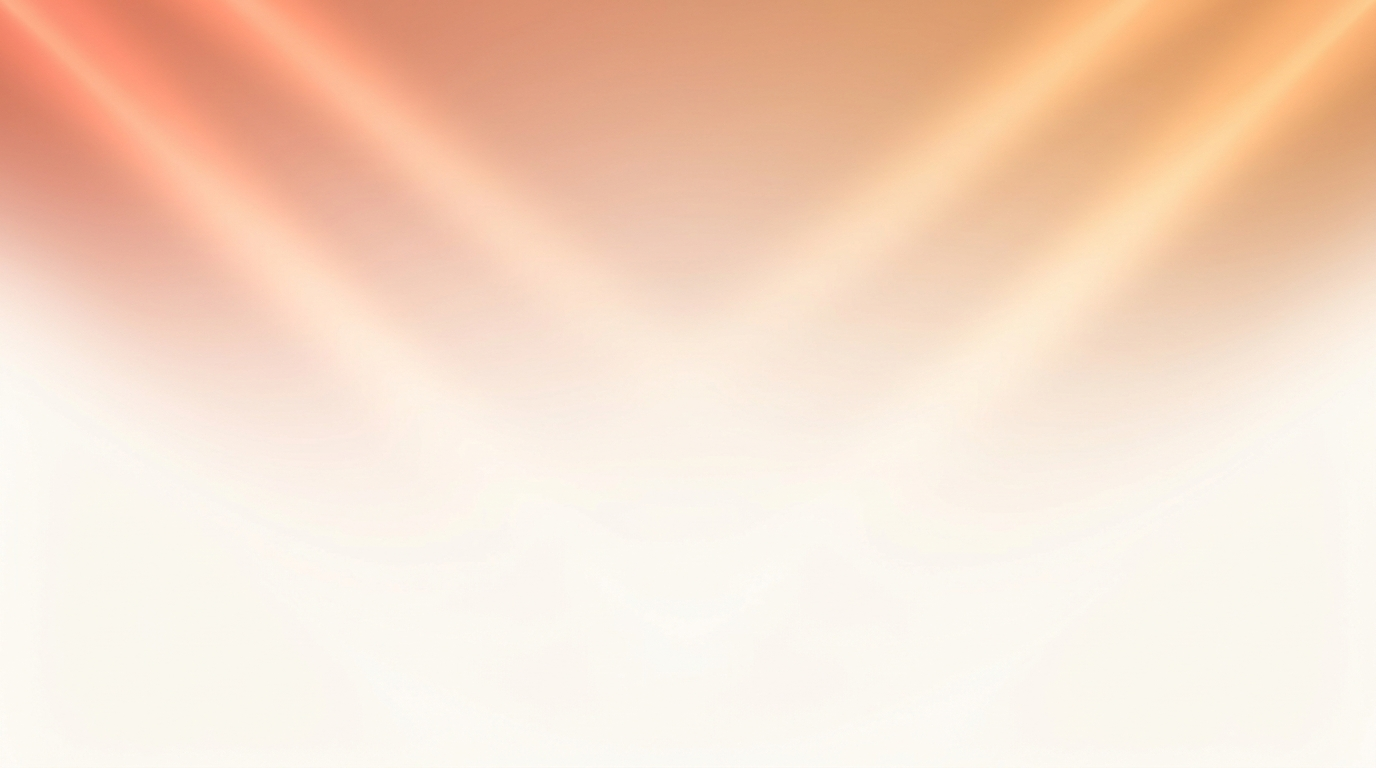
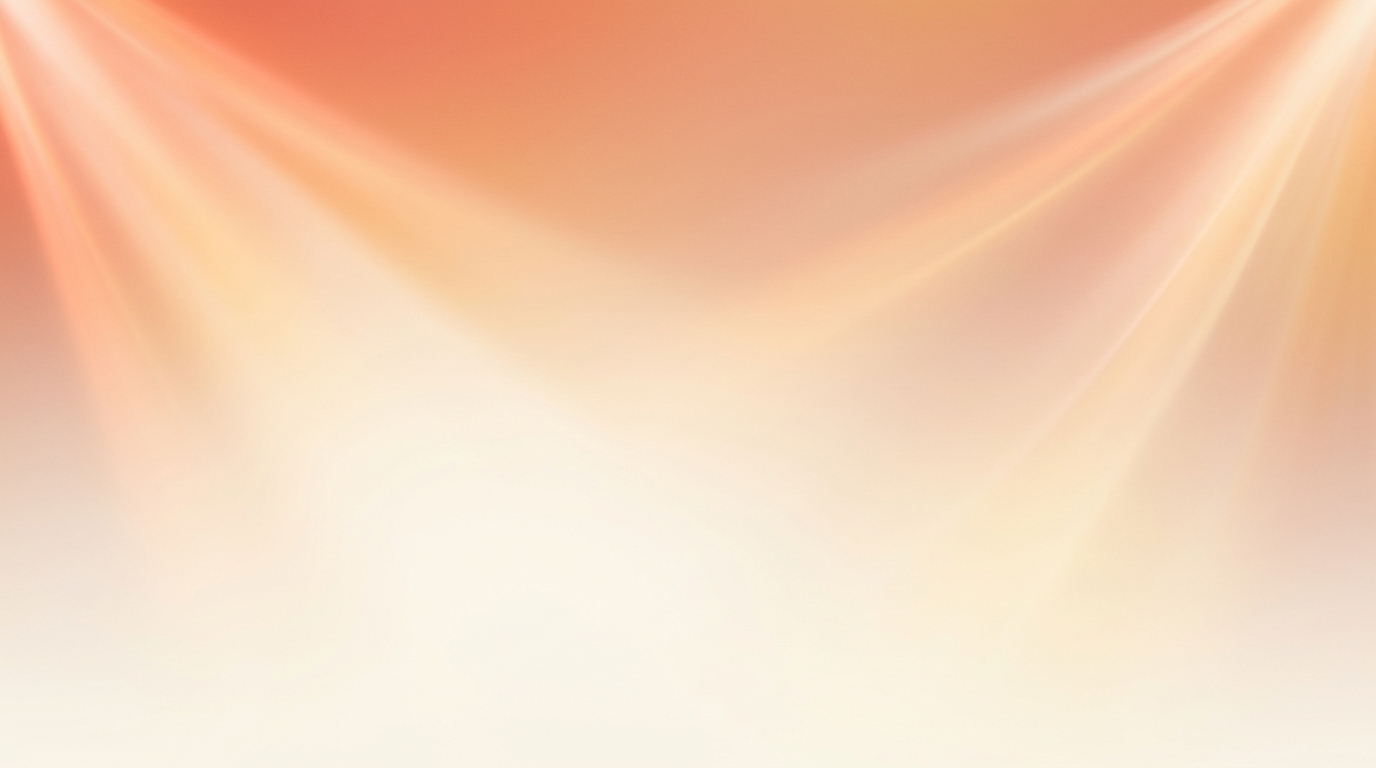
Update Hero background to ultra-wide spread radiant beams with seamless canvas integration

diff --git a/src/components/Footer.tsx b/src/components/Footer.tsx
@@ -7,65 +7,74 @@ const APP_LOGIN_URL = 'https://app-cressco.vercel.app/login';
 
 export default function Footer() {
   return (
-    <footer className="bg-white border-t border-black/[0.06] pt-16 pb-12">
-      <div className="max-w-6xl mx-auto px-4 sm:px-6 lg:px-8">
+    <footer className="relative bg-[#05060B] text-white overflow-hidden border-t border-white/[0.08]">
+      {/* Background Ambient Glow & Starfield effect */}
+      <div className="absolute inset-0 pointer-events-none">
+        {/* Deep blue/purple & warm brand ambient gradient at bottom */}
+        <div className="absolute -bottom-24 -right-24 w-[500px] h-[500px] bg-blue-600/15 rounded-full blur-[120px]" />
+        <div className="absolute -bottom-32 left-1/3 w-[600px] h-[400px] bg-indigo-600/10 rounded-full blur-[140px]" />
+        <div className="absolute -bottom-10 left-0 w-[400px] h-[300px] bg-brand-500/10 rounded-full blur-[100px]" />
         
-        {/* Main Footer Grid */}
-        <div className="grid grid-cols-1 md:grid-cols-12 gap-10 md:gap-8 pb-12 border-b border-black/[0.06]">
-          
-          {/* Brand Col */}
-          <div className="md:col-span-4">
-            <a href={APP_LOGIN_URL} className="flex items-center gap-2.5 mb-3.5 group">
-              <img
-                src="/images/cressco-logo.png"
-                alt="Cressco Logo"
-                className="w-8 h-8 object-contain block"
-              />
-              <span className="text-xl font-bold tracking-tight text-charcoal-900">
-                Cressco
-              </span>
-            </a>
-            
-            <p className="text-sm text-charcoal-100 font-normal leading-relaxed max-w-xs mb-6">
-              Smarter management for growing bimbels.
-            </p>
+        {/* Subtle Starfield dots */}
+        <svg className="absolute inset-0 w-full h-full opacity-35" xmlns="http://www.w3.org/2000/svg">
+          <circle cx="8%" cy="18%" r="1" fill="#ffffff" opacity="0.8" />
+          <circle cx="15%" cy="38%" r="1" fill="#ffffff" opacity="0.4" />
+          <circle cx="28%" cy="14%" r="1.2" fill="#ffffff" opacity="0.7" />
+          <circle cx="42%" cy="28%" r="0.8" fill="#ffffff" opacity="0.5" />
+          <circle cx="58%" cy="12%" r="1" fill="#ffffff" opacity="0.6" />
+          <circle cx="72%" cy="32%" r="1.2" fill="#ffffff" opacity="0.7" />
+          <circle cx="86%" cy="16%" r="0.8" fill="#ffffff" opacity="0.4" />
+          <circle cx="94%" cy="24%" r="1" fill="#ffffff" opacity="0.8" />
+          <circle cx="34%" cy="50%" r="0.8" fill="#ffffff" opacity="0.3" />
+          <circle cx="65%" cy="48%" r="1" fill="#ffffff" opacity="0.5" />
+          <circle cx="82%" cy="60%" r="1" fill="#ffffff" opacity="0.6" />
+        </svg>
+      </div>
 
-            <div className="inline-flex items-center gap-2 text-xs text-charcoal-50 font-mono">
-              <span className="w-2 h-2 rounded-full bg-emerald-500" />
-              <span>Indonesia B2B SaaS Platform</span>
-            </div>
+      <div className="relative z-10 max-w-7xl mx-auto px-6 sm:px-8 lg:px-12 pt-16 sm:pt-20 pb-8 sm:pb-12">
+        {/* Top Content Row */}
+        <div className="grid grid-cols-1 lg:grid-cols-12 gap-12 lg:gap-8 pb-16 sm:pb-24">
+          
+          {/* Brand Info (Left) */}
+          <div className="lg:col-span-6 max-w-md">
+            <h3 className="text-xl sm:text-2xl font-bold tracking-wider text-white uppercase mb-3.5">
+              CRESSCO
+            </h3>
+            <p className="text-sm sm:text-[15px] text-zinc-400 font-normal leading-relaxed mb-6">
+              Modern SaaS platform to connect, automate, and grow your bimbel branches — all in one place.
+            </p>
+            <p className="text-xs text-zinc-400 font-normal tracking-wide">
+              © Copyright 2026 Cressco. All Rights Reserved.
+            </p>
           </div>
 
-          {/* Links Columns */}
-          <div className="md:col-span-8 grid grid-cols-2 sm:grid-cols-3 gap-8">
+          {/* Nav Links Columns (Right) */}
+          <div className="lg:col-span-6 grid grid-cols-3 gap-6 sm:gap-10">
             
             {/* Product */}
             <div>
-              <h4 className="text-xs font-bold text-charcoal-900 uppercase tracking-wider mb-4">
+              <h4 className="text-sm font-semibold text-white mb-4 tracking-tight">
                 Product
               </h4>
-              <ul className="space-y-2.5 text-sm">
+              <ul className="space-y-3 text-xs sm:text-sm text-zinc-400">
                 <li>
-                  <Link href="#features" className="text-charcoal-100 hover:text-brand-600 transition-colors">
+                  <Link href="#features" className="hover:text-white transition-colors duration-150">
                     Features
                   </Link>
                 </li>
                 <li>
-                  <Link href="#pricing" className="text-charcoal-100 hover:text-brand-600 transition-colors">
-                    Pricing
+                  <Link href="#roles" className="hover:text-white transition-colors duration-150">
+                    Integrations
                   </Link>
                 </li>
                 <li>
-                  <a 
-                    href={APP_LOGIN_URL}
-                    className="text-charcoal-100 hover:text-brand-600 transition-colors block"
-                  >
-                    Dashboard Login
-                  </a>
+                  <Link href="#workflow" className="hover:text-white transition-colors duration-150">
+                    How It Works
+                  </Link>
                 </li>
                 <li>
-                  <Link href="#roles" className="text-charcoal-100 hover:text-brand-600 transition-colors">
-                    Roles
+                  <Link href="#pricing" className="hover:text-white transition-colors duration-150">
+                    Pricing
                   </Link>
                 </li>
               </ul>
@@ -73,70 +82,99 @@ export default function Footer() {
 
             {/* Company */}
             <div>
-              <h4 className="text-xs font-bold text-charcoal-900 uppercase tracking-wider mb-4">
+              <h4 className="text-sm font-semibold text-white mb-4 tracking-tight">
                 Company
               </h4>
-              <ul className="space-y-2.5 text-sm">
+              <ul className="space-y-3 text-xs sm:text-sm text-zinc-400">
                 <li>
-                  <a 
-                    href={APP_LOGIN_URL}
-                    className="text-charcoal-100 hover:text-brand-600 transition-colors block"
-                  >
+                  <a href={APP_LOGIN_URL} className="hover:text-white transition-colors duration-150">
                     About
                   </a>
                 </li>
                 <li>
-                  <a 
-                    href={APP_LOGIN_URL}
-                    className="text-charcoal-100 hover:text-brand-600 transition-colors block"
-                  >
+                  <a href={APP_LOGIN_URL} className="hover:text-white transition-colors duration-150">
+                    Careers
+                  </a>
+                </li>
+                <li>
+                  <a href={APP_LOGIN_URL} className="hover:text-white transition-colors duration-150">
+                    Blog
+                  </a>
+                </li>
+                <li>
+                  <a href={APP_LOGIN_URL} className="hover:text-white transition-colors duration-150">
                     Contact
                   </a>
                 </li>
               </ul>
             </div>
 
-            {/* Resources */}
+            {/* Legal */}
             <div>
-              <h4 className="text-xs font-bold text-charcoal-900 uppercase tracking-wider mb-4">
-                Resources
+              <h4 className="text-sm font-semibold text-white mb-4 tracking-tight">
+                Legal
               </h4>
-              <ul className="space-y-2.5 text-sm">
+              <ul className="space-y-3 text-xs sm:text-sm text-zinc-400">
                 <li>
-                  <a 
-                    href={APP_LOGIN_URL}
-                    className="text-charcoal-100 hover:text-brand-600 transition-colors block"
-                  >
-                    Help Center
+                  <a href={APP_LOGIN_URL} className="hover:text-white transition-colors duration-150">
+                    Terms of License
                   </a>
                 </li>
                 <li>
-                  <a 
-                    href={APP_LOGIN_URL}
-                    className="text-charcoal-100 hover:text-brand-600 transition-colors block"
-                  >
-                    Documentation
+                  <a href={APP_LOGIN_URL} className="hover:text-white transition-colors duration-150">
+                    Privacy Policy
                   </a>
                 </li>
                 <li>
-                  <Link href="#faq" className="text-charcoal-100 hover:text-brand-600 transition-colors">
-                    FAQ
-                  </Link>
+                  <a href={APP_LOGIN_URL} className="hover:text-white transition-colors duration-150">
+                    Cookie Policy
+                  </a>
                 </li>
               </ul>
             </div>
 
           </div>
-
         </div>
 
-        {/* Bottom Bar */}
-        <div className="pt-8 flex flex-col sm:flex-row items-center justify-between gap-4 text-xs text-charcoal-50 font-normal">
-          <p>© 2026 Cressco. All rights reserved.</p>
-          <div className="flex items-center gap-6">
-            <span>Dirancang untuk Bimbel Indonesia</span>
-            <span>•</span>
-            <span>Keamanan & Privasi Terjamin</span>
+        {/* Bottom Giant Brand Typography + Dot Matrix Graphic */}
+        <div className="pt-4 sm:pt-8 flex items-center justify-between border-t border-white/[0.06] select-none">
+          <div className="w-full flex items-center justify-between gap-4 overflow-hidden">
+            
+            {/* Giant CRESSCO Typography */}
+            <span className="font-extrabold tracking-tighter uppercase text-[12vw] sm:text-[13vw] lg:text-[14vw] leading-[0.85] bg-gradient-to-b from-white via-zinc-200 to-zinc-600/30 bg-clip-text text-transparent transition-all duration-300">
+              CRESSCO
+            </span>
+
+            {/* Dot Matrix Arrow Icon Graphic */}
+            <div className="shrink-0 flex items-center justify-center pl-4 sm:pl-8">
+              <svg 
+                className="w-16 h-16 sm:w-24 sm:h-24 md:w-32 md:h-32 lg:w-40 lg:h-40" 
+                viewBox="0 0 160 160" 
+                fill="none" 
+                xmlns="http://www.w3.org/2000/svg"
+              >
+                {/* Diagonal Arrow Dot Matrix (Matching Atomify reference) */}
+                {/* Col 1 */}
+                <circle cx="20" cy="20" r="7" className="fill-white/80" />
+                <circle cx="20" cy="140" r="7" className="fill-white/70" />
+                
+                {/* Col 2 */}
+                <circle cx="55" cy="55" r="7.5" className="fill-white/90" />
+                <circle cx="55" cy="140" r="7.5" className="fill-white/85" />
+                
+                {/* Col 3 */}
+                <circle cx="90" cy="90" r="8" className="fill-white" />
+                <circle cx="90" cy="140" r="8" className="fill-white/90" />
+                
+                {/* Col 4 (Arrowhead column) */}
+                <circle cx="125" cy="20" r="7" className="fill-white/70" />
+                <circle cx="125" cy="55" r="7.5" className="fill-white/85" />
+                <circle cx="125" cy="90" r="8" className="fill-white/95" />
+                <circle cx="125" cy="125" r="8.5" className="fill-white shadow-lg" />
+                <circle cx="125" cy="140" r="7" className="fill-white/80" />
+              </svg>
+            </div>
+
           </div>
         </div>
 

diff --git a/src/components/Hero.tsx b/src/components/Hero.tsx
@@ -10,15 +10,15 @@ export default function Hero() {
   return (
     <section className="relative pt-32 pb-16 md:pt-40 md:pb-24 overflow-hidden">
       
-      {/* 100% Full-Width Seamless Canvas Background (Obliq Radiant Style) */}
-      <div className="absolute top-0 left-0 right-0 w-full h-[620px] sm:h-[780px] lg:h-[900px] overflow-hidden pointer-events-none z-0 select-none">
+      {/* 100% Full-Width Seamless Canvas Background (Ultra-Wide Obliq Radiant Style) */}
+      <div className="absolute inset-0 w-full h-[950px] lg:h-[1150px] pointer-events-none z-0 select-none overflow-hidden">
         <img
-          src="/images/hero-bg-radiant.jpg"
+          src="/images/hero-bg-radiant.jpg?v=2"
           alt="Radiant Hero Background"
-          className="w-full h-full object-cover object-top opacity-85"
+          className="w-full h-full object-cover object-top opacity-90 block"
         />
-        {/* Smooth bottom gradient fade to seamlessly blend into page canvas */}
-        <div className="absolute inset-0 bg-gradient-to-b from-transparent via-transparent via-70% to-[#FAFAF9]" />
+        {/* Smooth progressive bottom gradient fade into page canvas */}
+        <div className="absolute inset-0 bg-gradient-to-b from-transparent via-transparent via-65% to-[#FAFAF9]" />
       </div>
 
       <div className="relative z-10 max-w-6xl mx-auto px-4 sm:px-6 lg:px-8">
